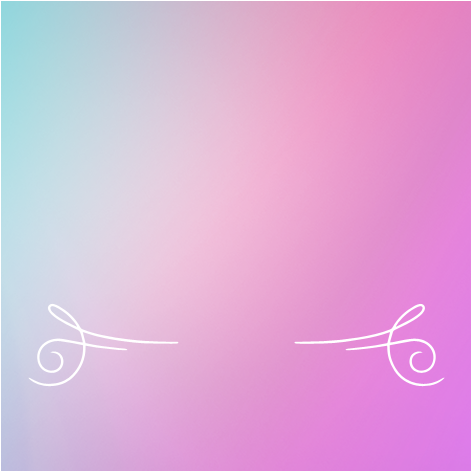
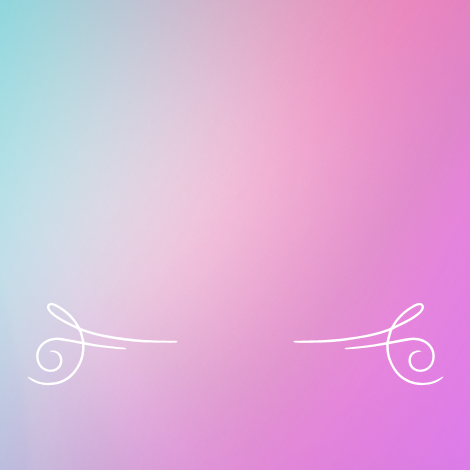
Se puso sombra en los textos, y se incremento el espacio del fondo gradiente.

diff --git a/app/assets/javascripts/home.js b/app/assets/javascripts/home.js
@@ -139,10 +139,10 @@ function cambiaLayout() {
   $("#perfil").addClass("s4x2");
   $("#perfil").html("<div class='equipo_div'><div id='equipo_datos'><div class='equipo_titulo'></div></div></div><div id='perfil_uno' class='perfil s2x2'><div class='menu_text menu_font'><div class='status'></div></div></div><div id='perfil_dos' class='perfil_dos s2x2'><div class='menu_text menu_font'><div class='status'></div></div></div>");
   $(".perfil").css("background", "url('/assets/bg_gradient_perfil.png'), url('http://graph.facebook.com/"+ uno.facebook_id +"/picture?redirect=1&type=square&width=300&height=300')");
-  resetCssProperty("perfil", "background-size", "100%");
+  resetCssProperty("perfil", "background-size", "101%, 100%");
   $("#perfil_uno .status").html(uno.first_name.toUpperCase() + " " + uno.last_name.toUpperCase() + "<p class='km_chico'>" + uno.kilometers + " KM <p class='barrio_chico'>" + (typeof uno.hood != 'undefined' ? uno.hood.name.toUpperCase() : ""  ) + "</p>");
   $(".perfil_dos").css("background", "url('/assets/bg_gradient_perfil.png'), url('http://graph.facebook.com/"+ dos.facebook_id +"/picture?redirect=1&type=square&width=300&height=300')");
-  resetCssProperty("perfil_dos", "background-size", "100%");
+  resetCssProperty("perfil_dos", "background-size", "101%, 100%");
   $("#perfil_dos .status").html(dos.first_name.toUpperCase() + " " + dos.last_name.toUpperCase() + "<p class='km_chico'>" + dos.kilometers + " KM <p class='barrio_chico'>" + (typeof dos.hood != 'undefined' ? dos.hood.name.toUpperCase() : ""  ) + "</p>");
   $("#equipo_datos .equipo_titulo").html("EQUIPO: <p class='nombre_grande'>" + equipo.name.toUpperCase() + "</p><p class='km_grande'>" + equipo.kilometers + " KM</p>");
   $("#editar").css("display", "inline");
@@ -187,13 +187,13 @@ function checkAmiga() {
     $("#amiga").on("click", muestraInvitacion);
     $("#amiga .status").html("ESPERANDO CONFIRMACIÓN <br/> DE TU COMPAÑERA");
     $("#amiga").css("background", "url('assets/bg_gradient_perfil.png'), url('http://graph.facebook.com/"+ $("#home-values").data("invited").invited_user_facebook_id +"/picture?redirect=1&width=400&height=200')");
-    $("#amiga").css("background-size", "100%");
+    $("#amiga").css("background-size", "101%, 100%");
   }
   else if (!isTeamComplete()) {
     cambiaCursor($("#amiga"), false);
     $("#amiga .status").text($("#home-values").data("partner").first_name.toUpperCase() + " " + $("#home-values").data("partner").last_name.toUpperCase());
     $(".amiga").css("background", "url('assets/bg_gradient_perfil.png'), url('http://graph.facebook.com/"+ $("#home-values").data("partner").facebook_id +"/picture?redirect=1&width=400&height=200')");
-    $(".amiga").css("background-size", "100%");
+    $(".amiga").css("background-size", "101%, 100%");
   }
   else {
     cambiaCursor($("#amiga"), false);
@@ -238,7 +238,7 @@ function checkBarrio() {
 
 function setProfile() {
   $(".perfil").css("background", "url('/assets/bg_gradient_perfil.png'), url('http://graph.facebook.com/"+ facebook_id +"/picture?redirect=1&type=square&width=300&height=300')");
-  resetCssProperty("perfil", "background-size", "100%");
+  resetCssProperty("perfil", "background-size", "101%, 100%");
   $("#perfil .status").html($("#home-values").data("user").first_name.toUpperCase() + " " + $("#home-values").data("user").last_name.toUpperCase() + "<p class='km_chico'>" + $("#home-values").data("user").kilometers + " KM</p>");
 }
 
@@ -251,6 +251,7 @@ function capturaPerfil() {
       var html = "<div id='sub_izq' class='profile_izq responsive_bck'><div class='menu_text menu_font'><div id='status' class='status'></div></div></div><div id='sub_der' class='profile_der responsive_bck'></div>"; 
       modalDialogue(html, {closeClass: 'dialogueClass', overlayClose: false, modal: false, opacity: 75, escClose: false});
       $(".profile_izq").css("background", "url('/assets/bg_gradient_perfil.png'), url('http://graph.facebook.com/"+ facebook_id +"/picture?redirect=1&type=square&width=300&height=300')");
+      resetCssProperty("profile_izq", "background-size", "101%, 100%");
       $("#status").html($("#home-values").data("user").first_name.toUpperCase() + " " + $("#home-values").data("user").last_name.toUpperCase() + "<p class='km_chico'>" + $("#home-values").data("user").kilometers + " KM</p>");
       $("#sub_der").html(data); 
     },
@@ -268,6 +269,7 @@ function capturaTwitter(firstTime) {
     success: function(data, textStatus, jqXHR) {
       if (firstTime) {
         $(".profile_izq").css("background", "url('/assets/bg_gradient_perfil.png'), url('http://graph.facebook.com/"+ facebook_id +"/picture?redirect=1&type=square&width=300&height=300')");
+        resetCssProperty("profile_izq", "background-size", "101%, 100%");
         $("#sub_der").html(data);
       }
       else {
@@ -277,6 +279,7 @@ function capturaTwitter(firstTime) {
         $("#cancelar-btn").removeClass("btn_cancelar");
         $("#cancelar-btn").addClass("btn_noconectar");
         $(".profile_izq").css("background", "url('/assets/bg_gradient_perfil.png'), url('http://graph.facebook.com/"+ facebook_id +"/picture?redirect=1&type=square&width=300&height=300')");
+        resetCssProperty("profile_izq", "background-size", "101%, 100%");
         $("#status").html($("#home-values").data("user").first_name.toUpperCase() + " " + $("#home-values").data("user").last_name.toUpperCase() + "<p class='km_chico'>" + $("#home-values").data("user").kilometers + " KM</p>");        
       }
     },
@@ -349,6 +352,7 @@ function muestraRequests() {
       modalInvites(html);
       $("#status").html($("#home-values").data("user").first_name.toUpperCase() + " " + $("#home-values").data("user").last_name.toUpperCase() + "<p class='km_chico'>" + $("#home-values").data("user").kilometers + " KM</p>");
       $(".profile_izq").css("background", "url('/assets/bg_gradient_perfil.png'), url('http://graph.facebook.com/"+ facebook_id +"/picture?redirect=1&type=square&width=300&height=300')");
+      resetCssProperty("profile_izq", "background-size", "101%, 100%");
       $("#sub_der").html(data);
     },
     error: function() {
@@ -361,7 +365,8 @@ function muestraConfirmacion() {
   var html = "<div id='sub_izq' class='profile_izq responsive_bck'></div><div id='sub_der' class='amiga_der responsive_bck'><div class='modal_input'><div class='img_modal_amiga'></div><div class='modal_text_no_margin' style='margin: 20px 0;'></div><div id='confirmacion_texto' class='modal_text_no_margin centered'></div></div></div>"; 
   modalDialogue(html);
   $(".profile_izq").css("background", "url('/assets/bg_gradient_perfil.png'), url('http://graph.facebook.com/"+ facebook_id +"/picture?redirect=1&type=square&width=300&height=300')");
-  $(".img_modal_amiga").css({background: "url('/assets/bg_gradient_perfil.png'), url('http://graph.facebook.com/"+  partner.facebook_id +"/picture?redirect=1&width=150&height=150')", "background-size": "100%", margin: "auto" });
+  resetCssProperty("profile_izq", "background-size", "101%, 100%");
+  $(".img_modal_amiga").css({background: "url('/assets/bg_gradient_perfil.png'), url('http://graph.facebook.com/"+  partner.facebook_id +"/picture?redirect=1&width=150&height=150')", "background-size": "101%, 100%", margin: "auto" });
   $("#sub_der .modal_text_no_margin").text(partner.first_name.toUpperCase() + " " + partner.last_name.toUpperCase());
   $("#sub_der #confirmacion_texto").html("ACEPTÓ TU INVITACIÓN A CORRER JUNTAS ESTE AÑO.<br/> DECIDAN CON QUÉ RETO QUIEREN EMPEZAR <br/> Y CORRAN HASTA LLEGAR AL PRIMER SITIO DEL RANKING.");
   $.ajax({
@@ -395,7 +400,7 @@ function muestraInvitacion() {
           $("#invitacion_texto").css("display", "none");
         }
 
-        $(".img_modal_amiga").css({background: "url('/assets/bg_gradient_perfil.png'), url('http://graph.facebook.com/"+ $("#home-values").data("invited").invited_user_facebook_id +"/picture?redirect=1&width=150&height=150')", "background-size": "100%", margin: "auto" });
+        $(".img_modal_amiga").css({background: "url('/assets/bg_gradient_perfil.png'), url('http://graph.facebook.com/"+ $("#home-values").data("invited").invited_user_facebook_id +"/picture?redirect=1&width=150&height=150')", "background-size": "101%, 100%", margin: "auto" });
         $("#amiga_invitada").text($("#home-values").data("invited").invited_user_name.toUpperCase().substr(0,18));
       },
       error: function() {
@@ -437,8 +442,8 @@ function registrarNombre() {
         capturaTwitter(true);
         // Pone background de perfil
         resetCssProperty("perfil", "background-color", "");
-        resetCssProperty("perfil", "background-size", "100%");
         resetCssProperty("perfil", "background", "url('/assets/bg_gradient_perfil.png'), url('http://graph.facebook.com/"+ facebook_id +"/picture?redirect=1&type=square&width=300&height=300')");
+        resetCssProperty("perfil", "background-size", "101%, 100%");
         reloadInfo();
       },
       error: function() {
@@ -662,12 +667,13 @@ function editarRegistro() {
       $("#sub_der").html(data);
 
       $(".profile_izq").css("background", "url('/assets/bg_gradient_perfil.png'), url('http://graph.facebook.com/"+ facebook_id +"/picture?redirect=1&type=square&width=300&height=300')");
+      resetCssProperty("profile_izq", "background-size", "101%, 100%");
       $("#sub_izq #status").html($("#home-values").data("user").first_name.toUpperCase() + " " + $("#home-values").data("user").last_name.toUpperCase() + "<p class='km_chico'>" + $("#home-values").data("user").kilometers + " KM</p>");
 
       if ($("#home-values").data("partner")) {
         $("#sub_der #amiga .status").html("TU COMPAÑERA ES: <br/> " + $("#home-values").data("partner").first_name.toUpperCase() + " " + $("#home-values").data("partner").last_name.toUpperCase());
         $("#sub_der .amiga").css("background", "url('assets/bg_gradient_perfil.png'), url('http://graph.facebook.com/"+ $("#home-values").data("partner").facebook_id +"/picture?redirect=1&width=400&height=200')");
-        $("#sub_der .amiga").css("background-size", "100%");
+        $("#sub_der .amiga").css("background-size", "101%, 100%");
       }
 
       if ($("#home-values").data("team") && $("#home-values").data("team").name) {

diff --git a/app/assets/stylesheets/display.css b/app/assets/stylesheets/display.css
@@ -30,6 +30,10 @@
   font-style: normal;
 }
 
+body{
+  text-shadow: 1px 1px 3px #555;
+}
+
 .centered{
   margin: auto;
   text-align: center;
@@ -68,6 +72,7 @@
 	padding: 12px 20px 0;
   border-radius: 0px;
   height: 40px;
+  text-shadow: none;
 }
 .nav-pills li a.menubutton:hover {
   color: #FF5A00;
@@ -155,6 +160,7 @@
   cursor: pointer;
   padding: 8px 0 0 12px;
   list-style-type: none;
+  text-shadow: none;
 }
 
 /* for modal */
